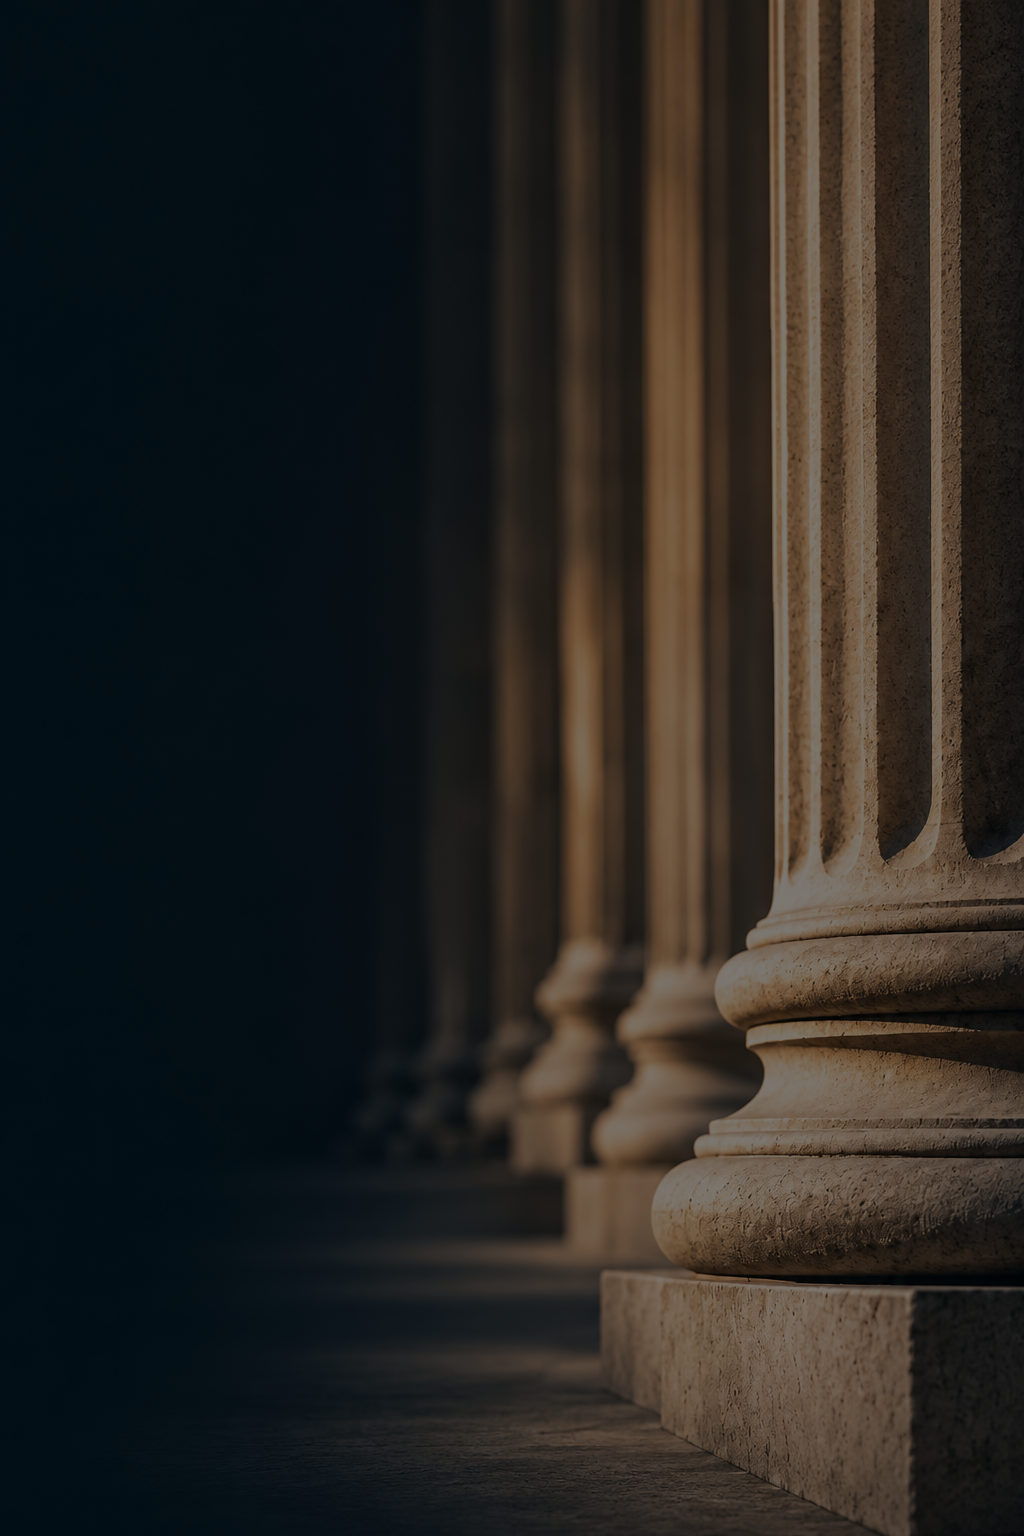
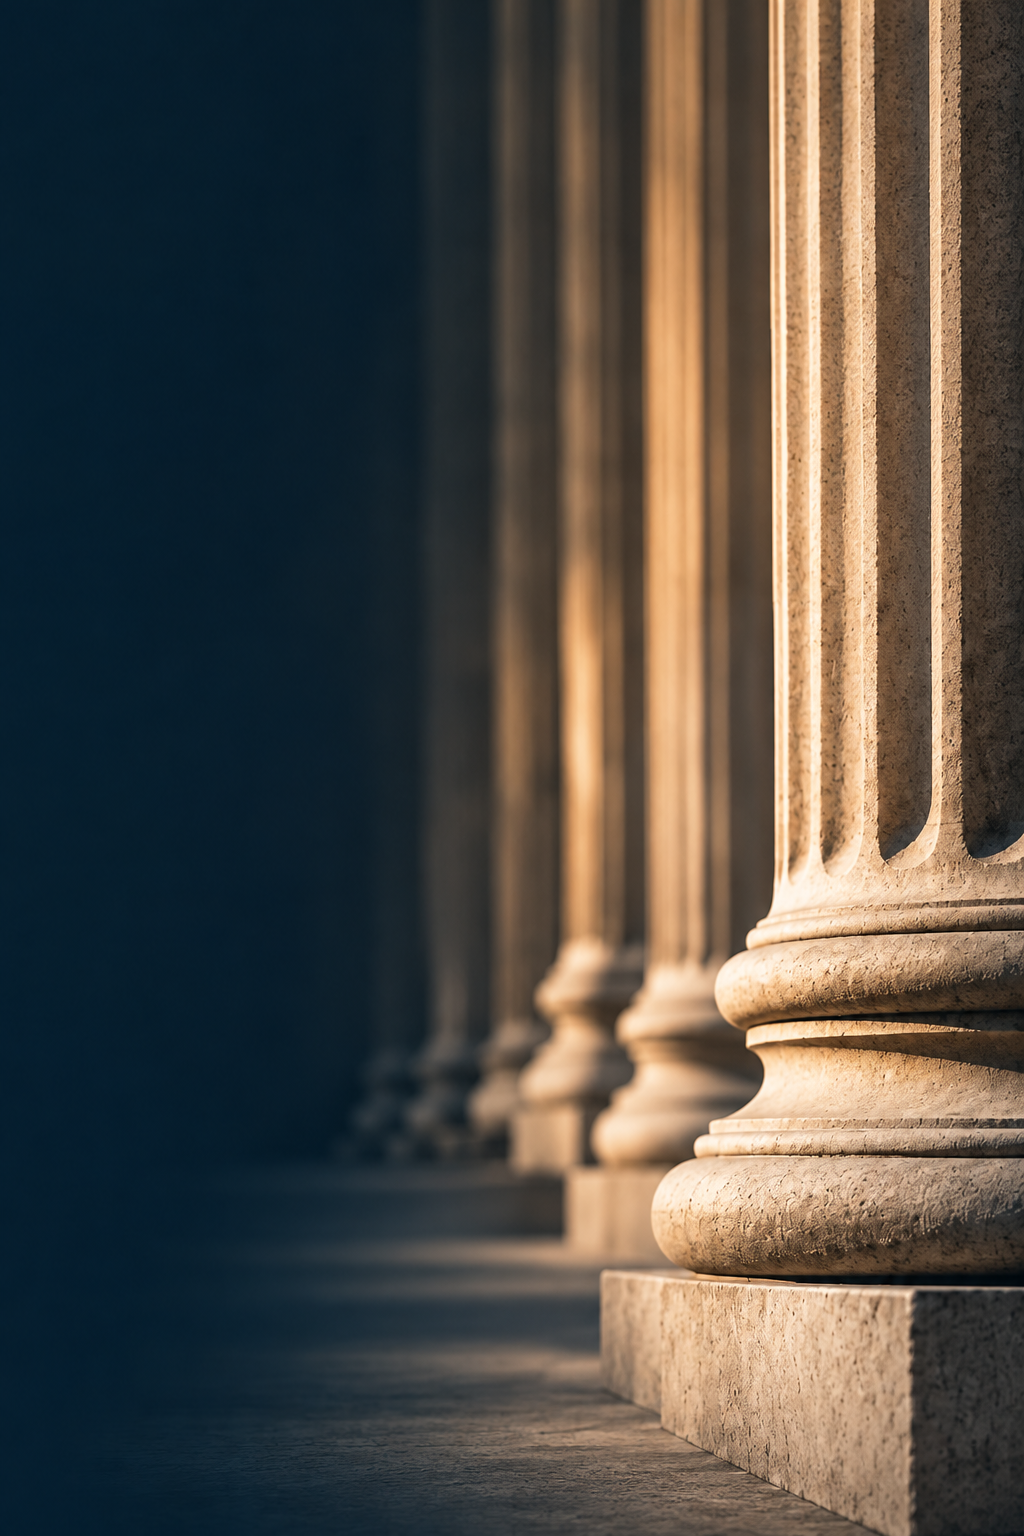
Integrated Firebase Firestore for live cloud text editing and polished navigation

diff --git a/app/about/page.tsx b/app/about/page.tsx
@@ -298,7 +298,7 @@ return (
       </nav>
 
       {/* ABOUT HERO SECTION */}
-      <section className="relative min-h-screen sm:min-h-screen flex flex-col justify-start pt-36 pb-24 sm:justify-center sm:pt-40 sm:pb-20 px-6 sm:px-6 overflow-hidden border-b border-slate-800">
+      <section className="relative min-h-[90vh] sm:min-h-screen flex flex-col justify-start pt-32 pb-16 sm:justify-center sm:pt-40 sm:pb-20 px-5 sm:px-6 overflow-hidden border-b border-slate-800">
 
         {/* BACKGROUND IMAGE */}
 <div className="absolute inset-0 z-0">
@@ -326,10 +326,10 @@ return (
 </div>
 
         {/* HERO CONTENT */}
-        <div className="relative z-10 max-w-7xl mx-auto w-full mt-0 flex flex-col min-h-[65vh] sm:min-h-0 justify-center sm:justify-start">
+        <div className="relative z-10 max-w-7xl mx-auto w-full mt-0">
 
           {/* TAG */}
-          <div className="flex items-center gap-6 mb-12 sm:mb-10">
+          <div className="flex items-center gap-6 mb-8 sm:mb-10">
 
             {isEditing ? (
               <input
@@ -352,7 +352,7 @@ return (
 
           {/* HEADING */}
           <h1
-  className="font-serif text-5xl sm:text-6xl lg:text-8xl font-normal leading-[1.1] tracking-tight text-[#F5F2E9] mb-12 max-w-5xl"
+  className="font-serif text-5xl sm:text-6xl lg:text-8xl font-normal leading-[1.1] tracking-tight text-[#F5F2E9] mb-8 max-w-5xl"
   style={{
     WebkitTextStroke: '0.6px #000000',
     paintOrder: 'stroke fill',
@@ -407,7 +407,7 @@ return (
             />
           ) : (
            <p
-  className="text-slate-300 text-sm sm:text-base leading-relaxed font-semibold max-w-2xl"
+  className="text-slate-300 text-sm sm:text-base leading-relaxed font-semibold max-w-[80%] sm:max-w-2xl"
   style={{
     WebkitTextStroke: '0.3px #000000',
     paintOrder: 'stroke fill',
